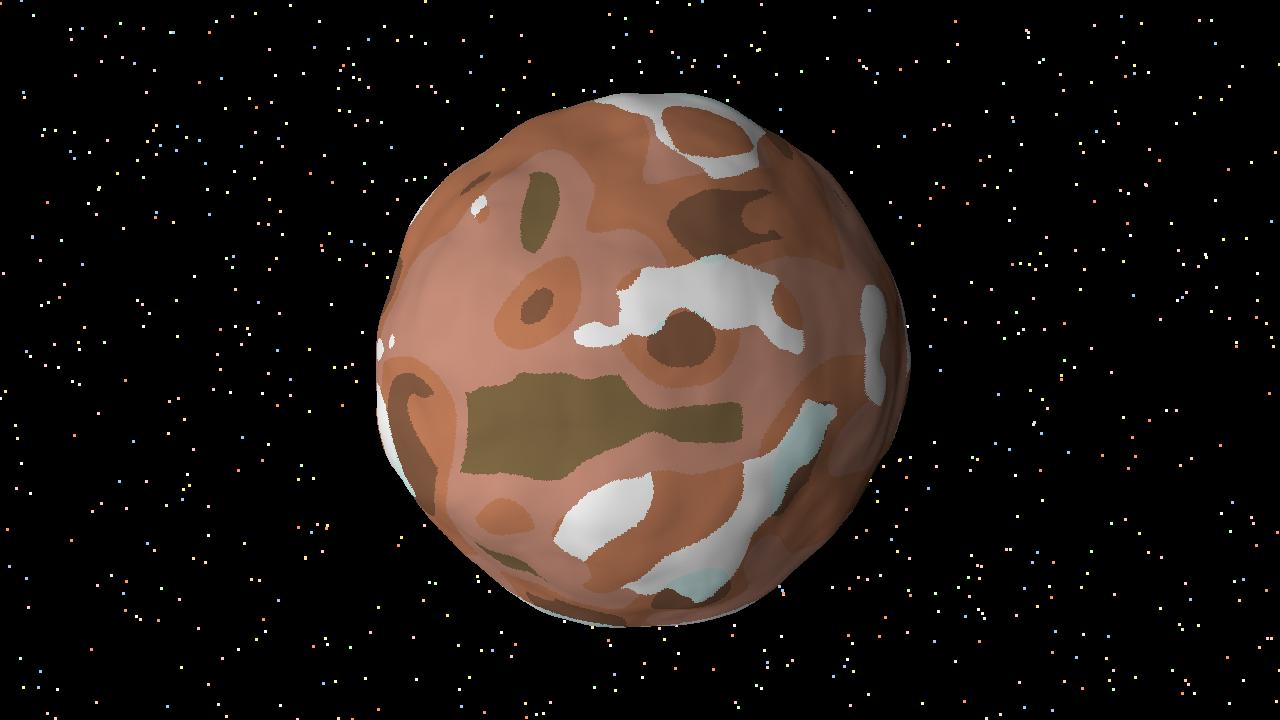
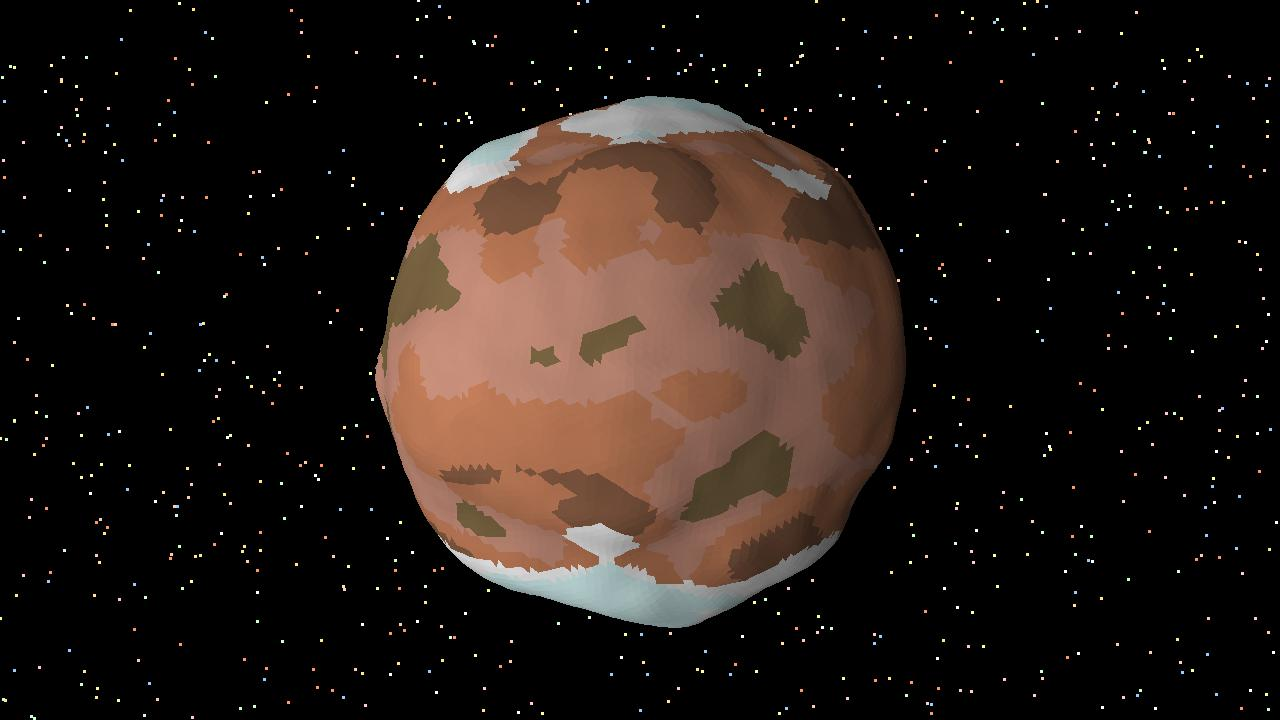
Updated planet biome generation

Changed region(s): [[0.2812, 0.1222, 0.7188, 0.8861], [0.6875, 0.3361, 0.7188, 0.3667], [0.6562, 0.6722, 0.6875, 0.7028]]

diff --git a/planet_types.py b/planet_types.py
@@ -89,6 +89,16 @@ class BodySetting(object):
 
     def get_moisture_noise(self, node):
         noise = ps.perlin(node, self._moisture_noise_width, self._total_moisture_levels, self._mh)
+        try:
+            altitude = abs(math.asin(2*node[1]/self._diameter))
+        except:
+            altitude = 1
+
+        noise = (self._total_moisture_levels - 1)*noise*altitude**2/self._total_moisture_levels + altitude
+            
+            
+        if noise > self._total_moisture_levels:
+            noise = self._total_moisture_levels
         return noise
 
     def get_biome(self, node):
@@ -205,13 +215,13 @@ class IronPlanet(TerrestrialPlanet):
         self._biome_assignments = {}
         self._biome_assignments[(3, 4)] = 'ICE'
         self._biome_assignments[(3, 3)] = 'SNOW'
-        self._biome_assignments[(3, 2)] = 'SNOW'
+        self._biome_assignments[(3, 2)] = 'HIGH IRON'
         self._biome_assignments[(3, 1)] = 'MEDIUM IRON'
-        self._biome_assignments[(2, 4)] = 'HIGH IRON'
-        self._biome_assignments[(2, 3)] = 'MEDIUM IRON'
-        self._biome_assignments[(2, 2)] = 'LOW IRON'
+        self._biome_assignments[(2, 4)] = 'ICE'
+        self._biome_assignments[(2, 3)] = 'SNOW'
+        self._biome_assignments[(2, 2)] = 'MEDIUM IRON'
         self._biome_assignments[(2, 1)] = 'LOW IRON'
-        self._biome_assignments[(1, 4)] = 'MEDIUM IRON'
+        self._biome_assignments[(1, 4)] = 'SNOW'
         self._biome_assignments[(1, 3)] = 'MEDIUM IRON'
         self._biome_assignments[(1, 2)] = 'LOW IRON'
         self._biome_assignments[(1, 1)] = 'SOOT'
@@ -353,13 +363,13 @@ class EarthAnalog(TerrestrialPlanet):
         self._biome_assignments[(4, 3)] = 'TUNDRA'
         self._biome_assignments[(4, 2)] = 'BARE'
         self._biome_assignments[(4, 1)] = 'SCORCHED'
-        self._biome_assignments[(3, 6)] = 'TAIGA'
+        self._biome_assignments[(3, 6)] = 'SNOW'
         self._biome_assignments[(3, 5)] = 'TAIGA'
         self._biome_assignments[(3, 4)] = 'SHRUBLAND'
         self._biome_assignments[(3, 3)] = 'SHRUBLAND'
         self._biome_assignments[(3, 2)] = 'TEMPERATE DESERT'
         self._biome_assignments[(3, 1)] = 'TEMPERATE DESERT'
-        self._biome_assignments[(2, 6)] = 'TEMPERATE RAIN FOREST'
+        self._biome_assignments[(2, 6)] = 'SNOW'
         self._biome_assignments[(2, 5)] = 'TEMPERATE DECIDUOUS FOREST'
         self._biome_assignments[(2, 4)] = 'TEMPERATE DECIDUOUS FOREST'
         self._biome_assignments[(2, 3)] = 'GRASSLAND'
@@ -375,7 +385,7 @@ class EarthAnalog(TerrestrialPlanet):
 
         #Clouds
         self._clouds_boolean = True
-        self._cloud_color = (255, 255, 255, 140)
+        self._cloud_color = (255, 255, 255, 255)
         self._cloud_height = self._max_height
         self._cloud_noise_width = (1/5) * self._diameter
         self._cloud_noise_cutoff = 0.75

diff --git a/planet_main.py b/planet_main.py
@@ -376,7 +376,11 @@ class GifCanvas:
                 mid = ps.get_middle_point(n1, n2, n3)
                 zcoord = mid[2]
                 color = ps.lighting(n1, n2, n3, face[3], self._light_vector)
+                #color = (120, 120, 0, 255)
+                #for testing lighting
                 draw_faces.append((zcoord, n1, n2, n3, color, position))
+
+            draw_faces = sorted(draw_faces)[math.ceil(len(draw_faces)/2):len(draw_faces)]
                 
             #level 5 takes 0.7 seconds
             #so about 65% of rendering time
@@ -441,6 +445,12 @@ class GifCanvas:
         del self._bodies[body]
         
     def make_img(self, filepath='movie.jpeg'):
+        ''' Generates a still image of the planet
+
+            Parameters:
+                filepath (str) : Where the image will be saved.
+                
+        '''
         image = self.draw_image()
         image.save(filepath, "JPEG")
 	
@@ -498,14 +508,13 @@ def main():
     gifcanvas.set_lighting(light_vector)
     gifcanvas.make_gif()
 
-def make_gif():
+def make_gif(complexity):
     background_color = (0, 0, 0, 255)
     canvas_size = (750, 750)
 
     #create the planet type and planet object
     seed = random.random()
-    complexity = 5
-    planettype = pt.IcePlanet(450, seed)
+    planettype = pt.EarthAnalog(450, seed)
     planet = PlanetObject(planettype, complexity)
 
     #draw the planet
@@ -515,14 +524,16 @@ def make_gif():
     gifcanvas.set_lighting(light_vector)
     gifcanvas.make_gif()
 
-def make_img():
+def make_img(complexity):
     background_color = (0, 0, 0, 255)
     canvas_size = (1280, 720)
 
     seed = random.random()
-    complexity = 7
-    planet_types = [pt.EarthAnalog(500, seed), pt.IronPlanet(500, seed), pt.IcePlanet(500, seed)]
+    planet_types = [pt.EarthAnalog(500, seed),
+                    pt.IronPlanet(500, seed),
+                    pt.IcePlanet(500, seed)]
     planet_type = random.choice(planet_types)
+    planet_type = pt.IronPlanet(500, seed)
     planet = PlanetObject(planet_type, complexity)
 
     gifcanvas = GifCanvas(canvas_size, background_color)

diff --git a/index.py b/index.py
@@ -1,13 +1,12 @@
 import planet_main as pm
 import facebook, requests
-from PIL import Image
 
 page_id = '140719353303841'
[1 lines of base64/hex data omitted]
 
 graph = facebook.GraphAPI(access_token=at)
 
-pm.make_img()
+pm.make_img(7)
 
 graph.put_photo(image=open('movie.jpeg', 'rb'), message='')
 

diff --git a/test.py b/test.py
@@ -1,0 +1,5 @@
+import planet_main as pm
+
+
+pm.make_gif(5)
+
